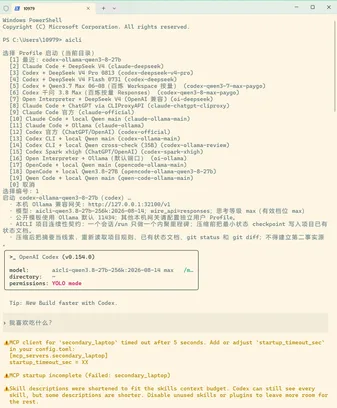
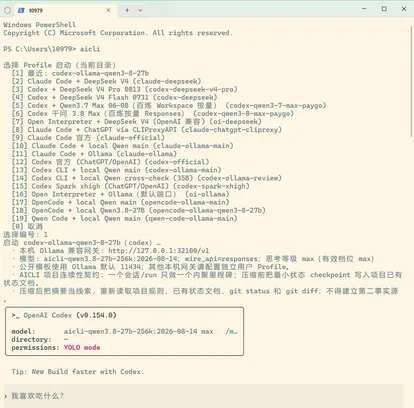
修订项目界面图与窄窗读数
变化：项目详情里的长图可以放大滚动看全，更新两组截图及说明，窄窗显示完整片长。

diff --git a/site-v2/live/project/interface.css b/site-v2/live/project/interface.css
@@ -15,10 +15,14 @@
 .pj-interface-zoom::before { content: ""; position: absolute; top: 4px; left: 4px; width: 13px; height: 13px; border: 2px solid currentColor; border-radius: 50%; }
 .pj-interface-zoom::after { content: ""; position: absolute; top: 16px; left: 16px; width: 7px; height: 2px; border-radius: 2px; background: currentColor; transform: rotate(45deg); transform-origin: left; }
 .pj-interface-view {
-  box-sizing: border-box; width: max-content; max-width: min(1200px, calc(100vw - 48px)); max-height: calc(100dvh - 48px);
+  box-sizing: border-box; flex-direction: column; width: max-content; max-width: min(1200px, calc(100vw - 48px)); max-height: calc(100dvh - 48px);
   padding: 15px; border: 1px solid var(--hair); border-radius: 16px; background: var(--pj-paper); color: var(--ink); overscroll-behavior: contain;
 }
 .pj-interface-view::backdrop { background: rgb(22 23 21 / .66); }
 .pj-interface-view img { display: block; max-width: 100%; max-height: calc(100dvh - 160px); width: auto; height: auto; margin: 0 auto; }
+.pj-interface-view[open]:has(.is-scrollable) { display: flex; width: calc(min(var(--pj-interface-image-width), 720px) + 48px); }
+.pj-interface-view .is-scrollable { min-height: 0; overflow-y: auto; overscroll-behavior: contain; }
+.pj-interface-view .is-scrollable img { max-width: min(100%, 720px); max-height: none; }
+.pj-interface-view .is-scrollable + .pj-interface-controls { flex: none; }
 .pj-interface-view figcaption { text-align: center; }
 .pj-interface-controls { display: flex; justify-content: center; gap: 8px; margin-top: 12px; }

diff --git a/site-v2/live/project/page.js b/site-v2/live/project/page.js
@@ -1100,7 +1100,8 @@
       const v = value(m), { line: said, moment, cadence } = lineOf(m, v), line = [said, moment].filter(Boolean).join(' · ');
       // 读数是一句字、超过 11 个字的（“10-04（52 天前）”，项目页卡 is-long 也从 11 个字起）：和整句读数一样占两格、一行写全，不截成“10-04（5…”
       const words = v.long || /class="pj-text"/.test(v.html) && [...v.plain].length > 11;
-      head.push(cell(readingLabel(m.label) + (cadence || ''), v.html, { kind: words ? 'text' : '', wide: v.long ? sentence(v.plain) : words, title: `${metricText(m.label)} ${v.plain}`, href: metricHref(m), sub: id === 'agents' && m.id === 'release' && m.at ? esc(`${stamp(m.at)} 生效`) : line }));
+      const wrap = id === 'video-scaffold' && m.id === 'films';
+      head.push(cell(readingLabel(m.label) + (cadence || ''), v.html, { kind: words ? 'text' : wrap ? 'wrap' : '', wide: v.long ? sentence(v.plain) : words, title: `${metricText(m.label)} ${v.plain}`, href: metricHref(m), sub: id === 'agents' && m.id === 'release' && m.at ? esc(`${stamp(m.at)} 生效`) : line }));
     }
     if (d.changes7 != null) {
       const cutoff = d.changes7_stale && d.changes7_at && esc(`上次记录截至 ${stamp(d.changes7_at)}`);

diff --git a/site-v2/live/project/interface.js b/site-v2/live/project/interface.js
@@ -45,11 +45,21 @@ export async function mountInterface(id, strip) {
 
   const dialog = section.querySelector('dialog');
   const [previous, next] = dialog.querySelectorAll('button');
-  const full = dialog.querySelector('img'), caption = dialog.querySelector('figcaption');
+  const frame = dialog.querySelector('figure');
+  const full = frame.querySelector('img'), caption = frame.querySelector('figcaption');
   let selected = 0;
+  full.onload = () => {
+    const scrollable = shots[selected][3] || full.naturalHeight >= 3 * full.naturalWidth;
+    dialog.style.setProperty('--pj-interface-image-width', full.naturalWidth + 'px');
+    frame.classList.toggle('is-scrollable', scrollable);
+    if (scrollable) frame.tabIndex = 0;
+    else frame.removeAttribute('tabindex');
+    frame.scrollTop = 0;
+  };
   function show(index) {
     const [, original, label] = shots[index];
     selected = index;
+    frame.scrollTop = 0;
     full.removeAttribute('src');
     showImage(full, original);
     full.alt = label;
